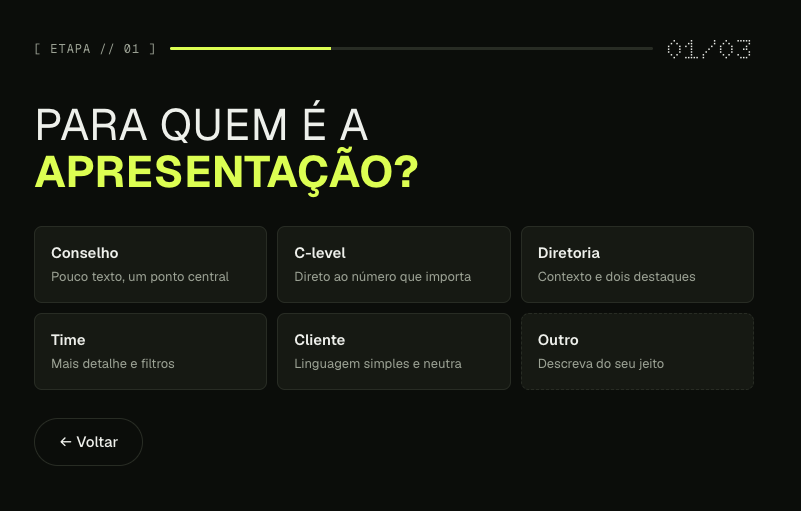
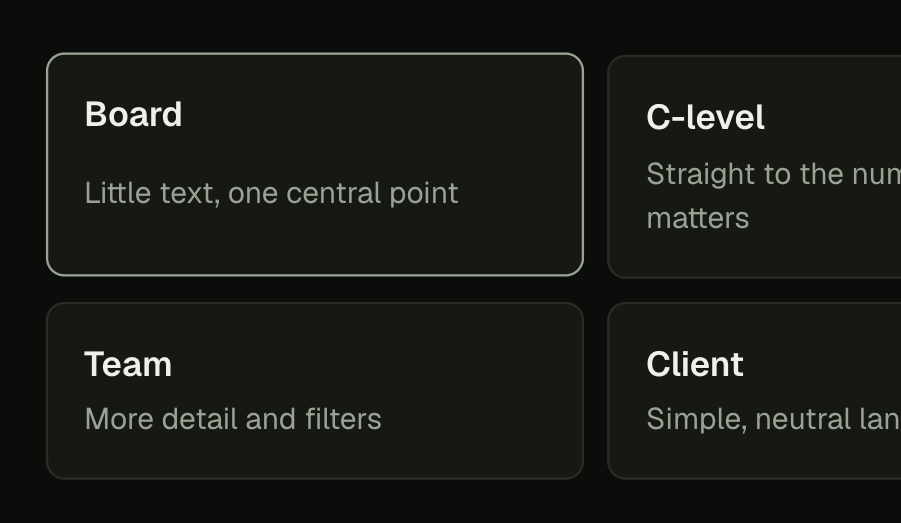
Landing: novas imagens da seção Como funciona

diff --git a/src/landing.js b/src/landing.js
@@ -9,9 +9,9 @@ const LP = {
     chips: ['XLSX · XLS · CSV', 'Exporta HTML offline', 'PT / EN'], hero_cap: 'Árvore radial com dados fictícios. Passe o mouse.',
     how_k: 'Como funciona', how_h: ['Quatro passos, zero', 'designer'],
     steps: [
-      ['Responda 4 perguntas', 'Qual é a sua área, para quem é, que decisão você quer provocar e quanto tempo tem. Depois da planilha, o Datavix mostra o que encontrou e escolhe o gráfico.', 'tela da primeira pergunta do Datavix'],
-      ['Suba a planilha', 'Excel ou CSV com dezenas de milhares de linhas. Reconhecemos colunas, datas, números em formato brasileiro e a qualidade dos dados.', 'tela para subir a planilha'],
-      ['Veja a animação', 'O gráfico entra com animação orquestrada. Insights só aparecem com cálculo que os sustente, e o “ver cálculo” mostra a conta.', 'editor com o gráfico animado, a lista e o painel de estilo'],
+      ['Responda 4 perguntas', 'Qual é a sua área, para quem é, que decisão você quer provocar e quanto tempo tem. Depois da planilha, o Datavix mostra o que encontrou e escolhe o gráfico.', 'opções de público na primeira pergunta do Datavix'],
+      ['Suba a planilha', 'Excel ou CSV com dezenas de milhares de linhas. Reconhecemos colunas, datas, números em formato brasileiro e a qualidade dos dados.', 'área para arrastar ou escolher a planilha'],
+      ['Veja a animação', 'O gráfico entra com animação orquestrada. Insights só aparecem com cálculo que os sustente, e o “ver cálculo” mostra a conta.', 'árvore radial animada com os detalhes da linha selecionada'],
       ['Edite e exporte', 'Troque gráfico, paleta, fundo e fontes. Exporte HTML interativo que abre offline, PNG ou um ZIP com um PNG por etapa.', 'painel de exportação: apresentar, HTML, PNG e ZIP'],
     ],
     ch_k: 'Gráficos', ch_h: ['Um gráfico para cada', 'história'], ch_p: 'A sugestão segue o formato dos seus dados. Você escolhe entre a principal e as alternativas.',
@@ -57,9 +57,9 @@ const LP = {
     chips: ['XLSX · XLS · CSV', 'Exports offline HTML', 'PT / EN'], hero_cap: 'Radial tree with sample data. Hover it.',
     how_k: 'How it works', how_h: ['Four steps, zero', 'designers'],
     steps: [
-      ['Answer 4 questions', 'Which area you work in, who it is for, which decision you want to trigger and how much time you have. After the spreadsheet, Datavix shows what it found and picks the chart.', 'the first Datavix question screen'],
-      ['Upload the spreadsheet', 'Excel or CSV with tens of thousands of rows. We detect columns, dates, number formats and data quality.', 'screen to upload the spreadsheet'],
-      ['Watch it animate', 'The chart enters with orchestrated animation. Insights only appear when a calculation supports them, and “see calculation” shows the math.', 'editor with the animated chart, the list and the style panel'],
+      ['Answer 4 questions', 'Which area you work in, who it is for, which decision you want to trigger and how much time you have. After the spreadsheet, Datavix shows what it found and picks the chart.', 'audience options on the first Datavix question'],
+      ['Upload the spreadsheet', 'Excel or CSV with tens of thousands of rows. We detect columns, dates, number formats and data quality.', 'area to drag or pick the spreadsheet'],
+      ['Watch it animate', 'The chart enters with orchestrated animation. Insights only appear when a calculation supports them, and “see calculation” shows the math.', 'animated radial tree with the details of the selected row'],
       ['Edit and export', 'Change chart, palette, background and fonts. Export interactive HTML that opens offline, a PNG, or a ZIP with one PNG per step.', 'export panel: present, HTML, PNG and ZIP'],
     ],
     ch_k: 'Charts', ch_h: ['A chart for every', 'story'], ch_p: 'The suggestion follows the shape of your data. You choose between the main one and the alternatives.',
